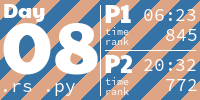
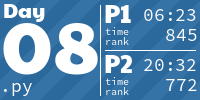
Add day 9

diff --git a/2023/09/09.py b/2023/09/09.py
@@ -1,0 +1,15 @@
+from sys import stdin
+
+lines = stdin.read().strip().split('\n')
+
+first = last = 0
+for line in lines:
+    diff = [int(a) for a in line.split()]
+    sign = 1
+    while any(diff):
+        last += diff[-1]
+        first += diff[0] * sign
+        sign *= -1
+        diff = [b - a for a, b in zip(diff, diff[1:])]
+
+print(first, last, sep='\n')

diff --git a/README.md b/README.md
@@ -4,7 +4,7 @@
 
 <!-- AOC TILES BEGIN -->
 <h1 align="center">
-  2023 - 16 ⭐
+  2023 - 18 ⭐
 </h1>
 <a href="2023/01/01.rs">
   <img src=".aoc_tiles/tiles/2023/01.png" width="161px">
@@ -27,8 +27,11 @@
 <a href="2023/07/07.py">
   <img src=".aoc_tiles/tiles/2023/07.png" width="161px">
 </a>
-<a href="2023/08/08.rs">
+<a href="2023/08/08.py">
   <img src=".aoc_tiles/tiles/2023/08.png" width="161px">
+</a>
+<a href="2023/09/09.py">
+  <img src=".aoc_tiles/tiles/2023/09.png" width="161px">
 </a>
 <h1 align="center">
   2022 - 50 ⭐
